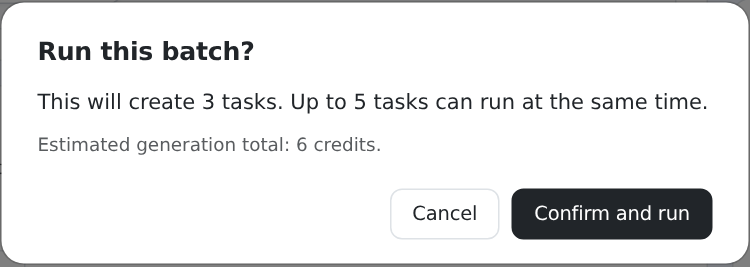
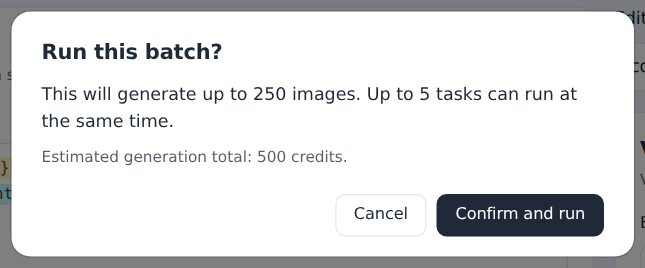
docs: update Variable Runner guide for multiple variables

Changed region(s): [[0.0, 0.0, 1.0, 1.0], [0.5271, 0.8689, 0.6512, 0.8989], [0.5271, 0.6891, 0.6512, 0.7191]]

diff --git a/docs/guide/variable-runner.md b/docs/guide/variable-runner.md
@@ -1,228 +1,147 @@
 # Variable Runner
 
-Turn one saved prompt template into a batch of image generations. Change a color, scene, style, or another part of the prompt for each task, keep the rest of the setup together, then download the results.
+Use a saved prompt template to generate images for every combination of your batch values. Choose up to four variables to vary, keep the other prompt values and model settings fixed, and download the results for each run.
 
-## When to use it
+For example, three mug colors, two photography styles, and two scenes give you **3 × 2 × 2 = 12 images**. With one batch variable, three values give you three images.
 
-Use Variable Runner when you need to:
+## Before you start
 
-- **Explore product variations.** Try a list of colors, materials, or background descriptions with the same product photography prompt.
-- **Compare creative directions.** Generate several scenes or visual styles without editing and submitting the same template for every idea.
-- **Explore text and image variations.** Start from a text-to-image or image-to-image template, keep any shared input and reference images, and vary the prompt instructions across the batch.
-- **Work through an existing list.** Paste values from your notes or import a TXT or JSON file, with one task planned for each value.
-- **Keep shared settings together.** Use the same model settings and fixed prompt variables throughout a run, then review the results in one place.
+Sign in to ImagenHub and open **Batch → Variable Runner**. You can run the batch from this page without entering an API key.
 
-![Variable Runner configured with a saved product photography template, a color batch variable, three values, and resolved prompt previews.](./assets/vr-configuration.png)
+- Have a saved [template](./templates.md) of your own. Choose a text-to-image or image-to-image model that accepts a text prompt. A model with an optional prompt input also works, but Variable Runner still needs prompt text to run.
+- Make sure your organization role allows you to run tasks. If you use an image-to-image template, have its required input and reference images ready.
 
-_One template, three colors, three tasks. Example setup and estimate._
+## 1. Choose a template
 
-## How it works
+Search for and select a saved template under **Prompt template**. The page loads its prompt and **Model settings**. Click **View template** to inspect the saved version. Changes you make in Variable Runner apply to the batch and leave the saved template as it is.
 
-Choose a template, add a batch variable to its prompt, and enter one value per line. Each value creates one task: three colors produce three tasks.
+Review the output size, quality, and any required images under **Model settings**. All combinations use the same model settings and images. Switching to a different template clears your batch value lists and loads the new prompt and settings.
 
-- **Shared setup.** Other prompt variables, model settings, and images stay fixed.
-- **Preview first.** Check the first three resolved prompts in **Prompt Preview**.
-- **Run the batch.** Add up to 250 values, with up to five tasks running at once.
+![Model settings for an image-to-image template with an input image, image size, and quality.](./assets/vr-image-settings.png)
 
-### Before you start
+![Variable Runner with the Ceramic Mug Studio template and its detected batch variables.](./assets/vr-configuration.png)
 
-Sign in to ImagenHub, then open **Batch → Variable Runner** in the sidebar. You do not need to enter an API key to use this page.
+## 2. Set up your batch variables
 
-- Have a saved template of your own ready. If you need one, start with [Templates](./templates.md).
-- Use a **text-to-image** or **image-to-image** model that accepts a text prompt. Models without a prompt input, such as a background removal model, cannot be used here.
-- Make sure your organization role allows you to run tasks. A role that can only view the page cannot start a batch.
-- Prepare any input or reference images required by your chosen model, and check the estimate before running.
-
-### 1. Choose a template
-
-Under **Prompt template**, search for and select one of your saved image generation templates.
-
-The selected template's name and model appear below the picker. Its prompt is copied into **Prompt**, and its other saved inputs are loaded into **Model settings**. Use **View template** to inspect the saved template.
-
-Your changes in Variable Runner apply to this run. They do not update the saved template.
-
-#### Which templates can be used?
-
-| Template | What to expect |
-| --- | --- |
-| Text-to-image with a prompt input | Supported. Prepare the prompt and any other required settings. |
-| Image-to-image with a prompt input | Supported. Also provide the input and reference images the model requires. |
-| Image model without a prompt input | Rejected when selected, even if the template contains saved prompt text. Choose a model that accepts a text prompt. |
-| Video, audio, or another model type | Not supported by Variable Runner. |
-
-A model with an optional prompt input is supported too. Variable Runner still needs you to enter a non-empty prompt for the run.
-
-Switching templates clears the current batch values and loads the new template's prompt and settings. Finish or save any results you need before starting a different setup.
-
-### 2. Prepare the prompt and batch variable
-
-Edit **Prompt text** to describe the image you want. Put a placeholder where the text should change for each task, for example:
+Wrap each part of the prompt you want to vary in double braces. For example:
 
 ```text
-Studio product photo of a {{color}} ceramic mug on a {{background}} background, soft natural light.
+Product photo of a {{color}} ceramic mug in a {{style}} style, on a {{Background Scene}} set, lit with {{lighting}}.
 ```
 
-If the template already has prompt variables, the first one in the prompt is selected as the batch variable. Other variables keep their saved defaults until you change them.
+Variable Runner detects distinct placeholders when you load a template or edit the prompt. It adds up to four as batch variables. If a placeholder appears more than once, each occurrence uses the same value for that image.
 
-If there is no batch variable yet:
+You can also create a variable manually:
 
-- Enter a name such as `color` under **Batch variable name**.
-- Click **Create variable**.
-- Place the cursor where the value should appear in the prompt, then click **Add to cursor**. You can also use **Copy placeholder** and paste it into the prompt.
+1. Click **Add batch variable**, enter a name, and click **Create variable**. Names can contain spaces between words, as in `Background Scene`. Start with a letter or underscore and use letters, numbers, underscores, or spaces.
+2. Place the cursor in **Prompt text** and click **Add to cursor**, or use **Copy placeholder** and paste it. Creating a variable manually adds its name to the list. Its placeholder needs to be in the prompt for its values to affect the run.
+3. To rename a variable, select it, edit its name, and click **Update**. The matching placeholders in the prompt update too.
 
-Creating the variable name alone does not insert its placeholder. Check that the prompt actually contains it before adding values.
+### Keep a variable fixed
 
-#### What the variable controls mean
+To use the same lighting for every image, select `lighting` in the list of batch variables and click **Remove**. The `{{lighting}}` placeholder stays in the prompt. Hover over or click it in the prompt editor and enter `soft window light`, or keep the saved default if it already has one. Fill in a value for every fixed placeholder used in the prompt.
 
-| Control | What it means |
+![The lighting placeholder set to soft window light as a fixed value.](./assets/vr-fixed-variable.png)
+
+## 3. Enter or import values for each variable
+
+Use **Edit values for** to select a batch variable. In **Variable values**, enter one value per line or import a file. Then select the next variable and repeat. Each variable keeps its own list when you switch between them.
+
+| Variable | Example values, one per line |
 | --- | --- |
-| Batch variable name | The one variable that receives a different value for each task. Start with a letter or underscore, then use letters, numbers, or underscores. |
-| Create variable / Update | Saves the variable name. When renaming an existing batch variable, **Update** also updates its matching placeholders in the prompt. |
-| Add to cursor | Inserts the saved batch placeholder at the current position in the prompt editor. |
-| Copy placeholder | Copies the placeholder, including its double braces, so you can paste it into the prompt. |
-| Remove | Removes the batch variable selection and clears the batch values. It does not delete the placeholder text from the prompt. |
+| `color` | terracotta<br>sage green<br>navy blue |
+| `style` | editorial<br>minimalist |
+| `Background Scene` | warm ivory<br>pale blue |
 
-If **Unsaved changes** appears beside the variable name, click **Update** before using **Add to cursor** or **Copy placeholder**. A name that already belongs to another prompt variable cannot be used to rename the current batch variable.
+The count updates as you type or import. In this example, **Variable values** shows `3 × 2 × 2 = 12 images`, with one image planned for each combination. Repeated values count as separate entries. If a batch variable used in the prompt has no values yet, add at least one before running.
 
-#### Fill in fixed variables
+A value list can exceed **250 values**. The **250-image limit applies to each run**. If your total exceeds that limit, the notice tells you how many images will run next and how many will remain afterward.
 
-For the example above, `color` changes across the batch while `background` stays the same. Click or hover over the `background` variable in the prompt and enter a value such as `warm ivory` in its popover.
+![The Edit values for selector and a calculation of 3 × 2 × 2 = 12 images.](./assets/vr-variable-values.png)
 
-![The background prompt variable has an editable popover, while color is the selected batch variable.](./assets/vr-fixed-variable.png)
+### Import a TXT or JSON list
 
-_Use one fixed value for the background. The batch list supplies the color for each task._
+Select the variable you want to fill, then click **Import TXT / JSON**. The import replaces that variable's active list. Click **Use manual input** to restore its previous manual entries. If an import fails, the current list stays available.
 
-Every fixed variable used in the prompt needs a non-empty value. Repeating the same batch placeholder several times uses that task's value in every occurrence.
-
-### 3. Add your values
-
-In **Variable values**, enter one value per line, up to 250 values:
-
-```text
-terracotta
-sage green
-navy blue
-```
-
-Empty lines are ignored. Commas stay inside a value, so `blue, with a matte finish` is one value and creates one task.
-
-![Three manually entered color values and the corresponding resolved prompts in Prompt Preview.](./assets/vr-values-preview.png)
-
-_The task count follows the number of values. Preview the substitutions before generating images._
-
-The list starts empty even when the template has a default for the batch variable. Add the values you want to run. If a change would exceed 250 values, it is rejected and the previous list is kept.
-
-#### Import a TXT or JSON file
-
-Click **Import TXT / JSON** and choose a file from your device. Open **File formats** beside the import controls for examples.
-
-| Format | What to put in the file |
+| Format | How values are read |
 | --- | --- |
-| TXT | One value per line. Empty lines are ignored; commas stay inside each line. |
-| JSON | An array of non-empty strings. Each string is one value, including any commas or line breaks inside it. |
+| Manual input or TXT | One value per line. Empty lines are skipped, and commas stay inside a value. |
+| JSON | An array of non-empty strings. Each string is one value and can include commas or line breaks. |
 
-For example, this JSON creates two tasks. The first value contains both a comma and a line break:
+For example, save this as a JSON file to give `style` two values. The first value contains a line break:
 
 ```json
 [
-  "terracotta, matte finish\nsubtle handmade texture",
-  "sage green, glossy finish"
+  "editorial, natural textures\nsoft shadows",
+  "minimalist, clean lines"
 ]
 ```
 
-![A JSON import with two values, including a multiline first value, and the resulting prompt previews.](./assets/vr-json-import.png)
+Use a text file up to 1 MiB. Open **File formats** for examples. The import panel shows up to six entries from the file.
 
-_JSON keeps a multiline instruction inside one value. Typing those same lines into the manual field would create separate values._
+![Two style values imported from JSON, with the first value spanning two lines.](./assets/vr-json-import.png)
 
-Files must be 1 MiB or smaller and contain no more than 250 values. Use readable text; binary files and unsupported control characters are rejected. JSON must be an array of strings, without empty or whitespace-only entries. CSV is not supported.
+## 4. Choose the run order
 
-An accepted import replaces the active list and previews its first six values. **Use manual input** restores the values you typed before importing. If an import fails, fix the file and try again; your current list stays available.
+When you have two or more batch variables, look for **Run order** below **Variable values**. Open the dropdown beside a variable and assign it a position such as **First** or **Second**. The other variables shift to make room.
 
-### 4. Check the model settings
+For each value of the first variable, Variable Runner tries all combinations of the variables below it. The last variable changes fastest, and the values within each variable follow the order you entered them. Changing the order keeps the total image count the same and changes which images are processed first.
 
-Review **Model settings** before running. These controls follow the selected model, so their names and available options can differ between templates.
+![The Run order dropdown showing First, Second, and Third for the Background Scene variable.](./assets/vr-run-order.png)
 
-- Set the output size, quality, or other options your model offers.
-- For an image-to-image template, provide all required input images. Add reference images if the model supports them and your prompt needs them.
-- Fix any required-field or validation messages before continuing.
+| Image | `color` → `style` → `Background Scene` | `Background Scene` → `color` → `style` |
+| --- | --- | --- |
+| 1 | terracotta · editorial · warm ivory | warm ivory · terracotta · editorial |
+| 2 | terracotta · editorial · pale blue | warm ivory · terracotta · minimalist |
+| 3 | terracotta · minimalist · warm ivory | warm ivory · sage green · editorial |
 
-![Model settings for an image-to-image template, with an input image, image size, and quality.](./assets/vr-image-settings.png)
+Put a variable first when you want to see everything for its first value before moving to the next. For example, put `Background Scene` first to review all colors and styles for `warm ivory` before moving to `pale blue`.
 
-_Image-to-image runs reuse the same input images and settings for every batch value. The text instructions change._
+## 5. Preview and run
 
-Variable Runner varies text inside the prompt. It does not assign a different uploaded image or a different model setting to each line in the values list.
+**Prompt Preview** shows the first five combinations in the upcoming run, or all of them if that run contains fewer than five. Check the values for each image and expand **View prompt** to read the full prompt, including fixed values.
 
-### 5. Preview and run the batch
+![The first five combinations with View prompt expanded on the first image.](./assets/vr-values-preview.png)
 
-Read **Prompt Preview** and check the task count. With the sample values and a fixed `background` of `warm ivory`, the three tasks use:
+1. Check **Generate images** for the total planned and **Run · N images** for the next run's size and credit estimate.
+2. Click **Run**. In **Run this batch?**, check the image count and estimated generation total. If the template uses post-processing, review the notice about separate charges.
+3. Click **Confirm and run**. The page opens **Results**. Keep the page open while the run processes up to five tasks at a time.
 
-| Task | Resolved prompt |
-| --- | --- |
-| 1 | Studio product photo of a terracotta ceramic mug on a warm ivory background, soft natural light. |
-| 2 | Studio product photo of a sage green ceramic mug on a warm ivory background, soft natural light. |
-| 3 | Studio product photo of a navy blue ceramic mug on a warm ivory background, soft natural light. |
+![Run this batch confirmation showing 250 images and the estimated generation total.](./assets/vr-confirm-run.png)
 
-Then:
+With no batch placeholders in use, a valid prompt and template can run as a single image.
 
-- Check the estimate on **Run · N tasks**.
-- Click **Run**. If a prompt, fixed variable, batch value, or required model input is missing, fix the displayed message and try again.
-- In **Run this batch?**, review the task count and estimated generation total. If the template includes post-processing, review the notice about its separate charges.
-- Click **Confirm and run** to start, or **Cancel** to return to the configuration.
+### Continue a batch with more than 250 images
 
-![Run this batch confirmation with three planned tasks, the estimated generation total, and Confirm and run.](./assets/vr-confirm-run.png)
+For example, **260 colors × 2 styles = 520 images**. **Run** starts the first 250. When that run finishes, click **Run next** for the next 250, then **Run next** again for the final 20. Each run starts where the previous one left off and uses the same prompt, values, order, and model settings. Check the remaining count before you continue.
 
-_Review the count and estimate before confirming. Up to five tasks can run at the same time._
+![A 260-image plan with a 250-image first run and 10 images remaining.](./assets/vr-run-limit.png)
 
-The page opens **Results** when generation starts. Keep it open while the queue runs. Template selection, prompt editing, batch values, and model settings are locked during generation. You can switch between **Configuration** and **Results** to inspect the run.
+## 6. Review and download results by run
 
-If you use a plain prompt with no active batch placeholder, Variable Runner creates a single task. Check the count before confirming if you expected a batch.
+Use the **Results page** dropdown or **Previous** and **Next** to switch between runs. Each page contains up to 250 results. The progress bar counts both successes and failures as completed tasks.
 
-### 6. Review results and retry failures
+- Click a successful image to open a larger preview, or **View task** to inspect the task.
+- Click **Download** on a card to save that image. **Download all from Run N** packages the successful images on the selected results page into a ZIP, up to 250 images per download. Switch pages and download each page separately to save the full sequence.
+- If you download while a run is in progress, the ZIP includes only the images that had succeeded when you clicked. Download again for images that finish later.
+- If an image fails, read its message and click **Retry** when available. If you see **Batch paused**, address the issue, open the paused run, and retry the failed task to let the queue continue. If status tracking was interrupted, retry checks the existing task before resubmitting it.
 
-**Batch results** shows a card for each task in the same order as the values list. The progress bar counts tasks that have finished, including failures.
+![Run 2 of 2 with four result cards showing terracotta orange, sage green, navy blue, and mustard yellow mugs, and a button to download that run.](./assets/vr-results-queue.png)
 
-![The Results tab showing a batch queue with individual task cards and running statuses.](./assets/vr-results-queue.png)
+_In this example, the second run shows four sample images. Each mug matches the `color` value on its result card._
 
-_Each value has its own task card. Results appear as individual tasks finish._
+## 7. Stop a sequence or change the configuration
 
-| Status | What it means |
-| --- | --- |
-| Queued | The task is waiting for a free slot, or the remaining queue is paused. |
-| Running | The task is being submitted or its generation status is being tracked. |
-| Success | The task has a generated image ready to view and download. |
-| Failed | The task could not finish successfully. Read its message and use **Retry** once the batch is no longer running. |
+Download any results you want to keep before ending a sequence. In **Results**, click **Stop running remaining combinations** to discard the rest of the sequence and clear its results from this workspace. The button returns to **Run**, and the next run starts from the first combination.
 
-Click a generated image to open a larger preview. Use **View task** to open its task details in a new tab when a task has been created.
+If you switch to **Configuration** while a sequence is still active, the fields are locked. Click **Stop remaining combinations to edit** (or **End sequence to edit** when there are no remaining combinations) and review the confirmation. Any work already in progress uses its original configuration. After confirming, update your prompt, values, or order. Once the active run finishes, you can start a fresh run from the beginning.
 
-Some failures affect only one image, and the other tasks continue. A submission refusal, such as insufficient credits, or a problem tracking a task can pause the remaining queue. When **Batch paused** appears, address the error and click **Retry** on the failed task. The remaining queue resumes after the retry can proceed.
+![Stop remaining combinations confirmation explaining that the sequence results will be cleared.](./assets/vr-stop-sequence.png)
 
-If generation may already have finished but status tracking was interrupted, retry checks the existing task before submitting it again. Review **View task** if you need to inspect its status.
+Reloading or leaving the page clears the workspace configuration and results. Submitted tasks remain accessible in **Task History**.
 
-### 7. Download or start again
+## Related guides
 
-- Click **Download** on a successful card to save that image.
-- Click **Download all (N)** to save the currently successful images together in `variable-runner-results.zip`.
-- Keep the page open while **Preparing ZIP** is displayed.
-
-You can download successful results while other tasks are still running. A ZIP includes the images that were successful when you clicked **Download all**; results that finish later need another download.
-
-If some downloads fail, the ZIP can still contain the files that were retrieved successfully. Read the message, then retry the missing downloads. Failed generation tasks are not included.
-
-Before starting a new batch, download any results you want to keep from the current gallery. A new run replaces the gallery. Reloading or leaving the page also clears the current configuration and gallery; submitted tasks remain accessible in **Task History**. Wait for active generation to finish before navigating away.
-
-## Good to know
-
-- **One task per value.** Repeated values still create separate tasks. Shared settings help you compare variations, but generated images can differ even when the text is the same.
-- **Use JSON for multiline values.** Manual input and TXT use line breaks to separate tasks; JSON preserves line breaks inside each string.
-- **The placeholder must appear in the prompt.** Saving a batch variable name does not insert it. Use **Add to cursor** or paste the copied placeholder, then check **Prompt Preview**.
-- **Fill every fixed variable.** Only the selected batch variable receives values from the list. Other placeholders need a fixed value in the prompt editor.
-- **Choose a model that accepts prompt text.** Background removal and other image-only tools without a prompt input are rejected, including when opening a template directly from a link.
-
-## Next steps
-
-Start with two or three values, review the prompts and results, then expand the list when the setup works for you.
-
-- [Templates](./templates.md) — prepare reusable models, prompts, and defaults.
-- [Batch Editor](./batch-editor.md) — align, resize, replace backgrounds, and add shadows to a collection of images.
-- [Dynamic Upload Ratio](./dynamic-upload-ratio.md) — let a template follow the shape of its input image.
-- [Getting Started](./getting-started.md) — explore the wider ImagenHub workflow.
+- [Templates](./templates.md) for reusable prompts and model defaults.
+- [Batch Editor](./batch-editor.md) for applying image edits to a collection of files.
+- [Dynamic Upload Ratio](./dynamic-upload-ratio.md) for templates that follow the shape of an input image.
